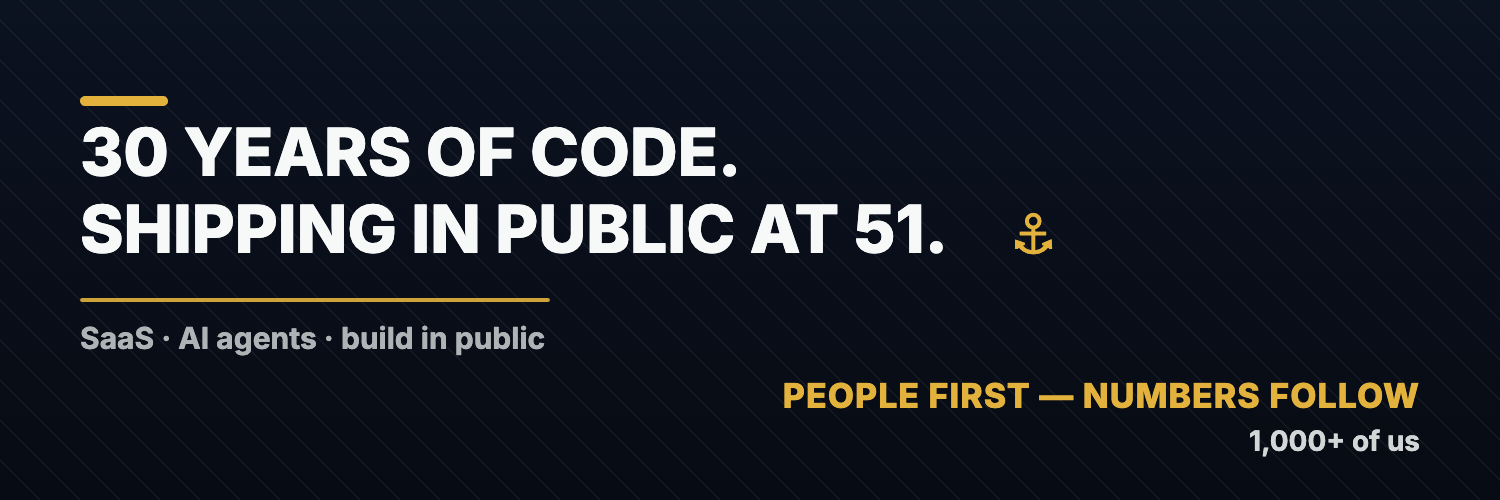
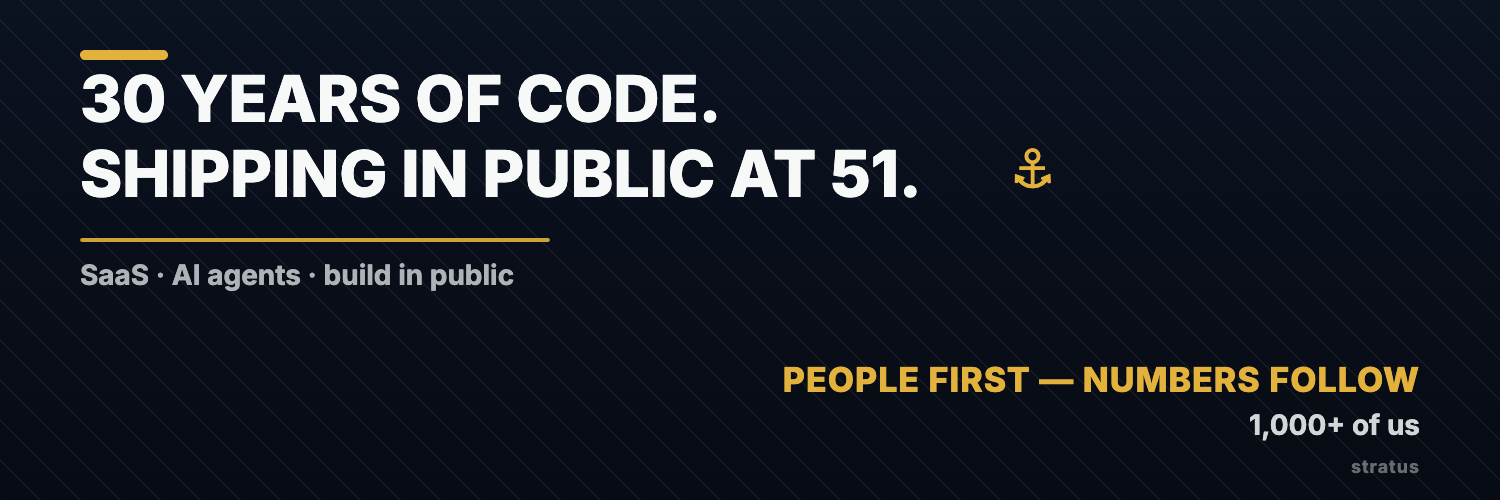
fixes mici

diff --git a/extension/src/studio/templates.ts b/extension/src/studio/templates.ts
@@ -382,19 +382,19 @@ export function bannerSpec(data: BannerData, kit: BrandKit): RenderSpec {
       0.6,
       patternArg(data.patternKind, data.patternSeed),
     ),
-    { kind: 'rule', box: { x: 80, y: 96, w: 88, h: 10 }, color: kit.accent },
   ];
 
   if (billboard) {
-    // Two-line headline (explicit \n survives layout), a gold anchor flourish, a
-    // divider, a "·"-joined tagline, and the stance + crew on the right where the
-    // follower count used to sit. No @handle sign — a banner already IS the
-    // profile, and the crew line owns the bottom-right (eval law #4).
+    // The whole left stack (rule → two-line headline → divider → tagline) sits in
+    // the vertical MIDDLE band, above y≈300, so the profile avatar (bottom-left
+    // ~400×200 on web) never covers it. The stance + crew take the right where
+    // the follower count used to sit; a tiny watermark signs the bottom-right.
+    layers.push({ kind: 'rule', box: { x: 80, y: 50, w: 88, h: 10 }, color: kit.accent });
     layers.push({
       kind: 'text',
       text: data.headline,
-      font: font(kit, 800, 66),
-      box: { x: 80, y: 118, w: 900, h: 172 },
+      font: font(kit, 800, 64),
+      box: { x: 80, y: 66, w: 900, h: 156 },
       color: ink,
       lineHeight: 1.16,
       minSizePx: 38,
@@ -406,8 +406,8 @@ export function bannerSpec(data: BannerData, kit: BrandKit): RenderSpec {
       layers.push({
         kind: 'text',
         text: '⚓︎',
-        font: font(kit, 400, 62),
-        box: { x: 1010, y: 188, w: 130, h: 94 },
+        font: font(kit, 400, 60),
+        box: { x: 1010, y: 122, w: 130, h: 96 },
         color: kit.accent,
         vAlign: 'middle',
         maxLines: 1,
@@ -415,15 +415,15 @@ export function bannerSpec(data: BannerData, kit: BrandKit): RenderSpec {
     }
     layers.push({
       kind: 'rule',
-      box: { x: 80, y: 298, w: 470, h: 4 },
+      box: { x: 80, y: 238, w: 470, h: 4 },
       color: withAlpha(kit.accent, 0.9),
     });
     if (data.keywords.length > 0) {
       layers.push({
         kind: 'text',
         text: data.keywords.join(' · '),
-        font: font(kit, 600, 30),
-        box: { x: 80, y: 320, w: 900, h: 44 },
+        font: font(kit, 600, 28),
+        box: { x: 80, y: 258, w: 900, h: 40 },
         color: muted,
         maxLines: 1,
         minSizePx: 20,
@@ -433,7 +433,7 @@ export function bannerSpec(data: BannerData, kit: BrandKit): RenderSpec {
       kind: 'text',
       text: data.stance as string,
       font: font(kit, 800, 34),
-      box: { x: 760, y: 376, w: 660, h: 46 },
+      box: { x: 700, y: 360, w: 720, h: 46 },
       color: kit.accent,
       align: 'right',
       maxLines: 1,
@@ -445,16 +445,31 @@ export function bannerSpec(data: BannerData, kit: BrandKit): RenderSpec {
         kind: 'text',
         text: data.crew,
         font: font(kit, 700, 28),
-        box: { x: 760, y: 424, w: 660, h: 40 },
+        box: { x: 700, y: 408, w: 720, h: 40 },
         color: withAlpha(ink, 0.85),
         align: 'right',
         maxLines: 1,
         minSizePx: 18,
       });
     }
+    // A tiny bottom-right sign (the kit's watermark text) tucked under the crew
+    // line — a light brand mark, not the big @handle the classic banner uses.
+    if (kit.watermark && kit.watermarkText !== '') {
+      layers.push({
+        kind: 'text',
+        text: kit.watermarkText,
+        font: font(kit, 600, 18),
+        box: { x: 700, y: 456, w: 720, h: 26 },
+        color: withAlpha(ink, 0.4),
+        align: 'right',
+        maxLines: 1,
+        letterSpacingPx: 1,
+      });
+    }
     return { w: BANNER.w, h: BANNER.h, layers };
   }
 
+  layers.push({ kind: 'rule', box: { x: 80, y: 96, w: 88, h: 10 }, color: kit.accent });
   layers.push({
     kind: 'text',
     text: data.headline,

diff --git a/extension/src/studio/templates.test.ts b/extension/src/studio/templates.test.ts
@@ -213,7 +213,7 @@ describe('bannerSpec', () => {
     });
   });
 
-  test('billboard: stance replaces the milestone, keywords become a tagline, no @handle sign', () => {
+  test('billboard: stance replaces the milestone, keywords become a tagline, tiny sign not @handle', () => {
     const spec = bannerSpec(
       {
         headline: '30 YEARS OF CODE.\nSHIPPING IN PUBLIC AT 51.',
@@ -225,30 +225,43 @@ describe('bannerSpec', () => {
       },
       kit,
     );
-    // fill, accent rule, headline, anchor, divider rule, tagline, stance, crew
-    expect(kinds(spec)).toEqual(['fill', 'rule', 'text', 'text', 'rule', 'text', 'text', 'text']);
+    // fill, rule, headline, anchor, divider, tagline, stance, crew, tiny sign
+    expect(kinds(spec)).toEqual([
+      'fill',
+      'rule',
+      'text',
+      'text',
+      'rule',
+      'text',
+      'text',
+      'text',
+      'text',
+    ]);
     // The follower count never renders in billboard mode.
     expect(spec.layers.some((l) => (l as { text?: string }).text === '980')).toBe(false);
-    // No @handle watermark — the crew line owns the bottom-right.
+    // The big @handle sign the classic banner uses never appears here.
+    expect(spec.layers.some((l) => (l as { text?: string }).text === '@narcis')).toBe(false);
     expect(spec.layers.some((l) => l.kind === 'watermark')).toBe(false);
     // Keywords are a "·"-joined plain text line, not a pill badge.
     expect(spec.layers.some((l) => l.kind === 'badge')).toBe(false);
-    expect(spec.layers[5]).toMatchObject({ text: 'SaaS · AI agents · build in public' });
     expect(spec.layers[3]).toMatchObject({ text: '⚓︎', color: kit.accent });
+    expect(spec.layers[5]).toMatchObject({ text: 'SaaS · AI agents · build in public' });
     expect(spec.layers[6]).toMatchObject({
       text: 'PEOPLE FIRST — NUMBERS FOLLOW',
       align: 'right',
       color: kit.accent,
     });
     expect(spec.layers[7]).toMatchObject({ text: '1,000+ of us', align: 'right' });
+    // A tiny bottom-right brand mark (the kit's watermark text), right-aligned.
+    expect(spec.layers[8]).toMatchObject({ text: 'stratus', align: 'right' });
   });
 
-  test('billboard: anchor and crew are optional', () => {
+  test('billboard: anchor, crew and the tiny sign are optional', () => {
     const spec = bannerSpec(
       { headline: 'h', keywords: [], followers: null, stance: 'PEOPLE FIRST' },
-      kit,
+      { ...kit, watermark: false },
     );
-    // fill, rule, headline, divider, stance — no anchor, no tagline, no crew.
+    // fill, rule, headline, divider, stance — no anchor, tagline, crew or sign.
     expect(kinds(spec)).toEqual(['fill', 'rule', 'text', 'rule', 'text']);
     expect(spec.layers.some((l) => (l as { text?: string }).text === '⚓︎')).toBe(false);
   });